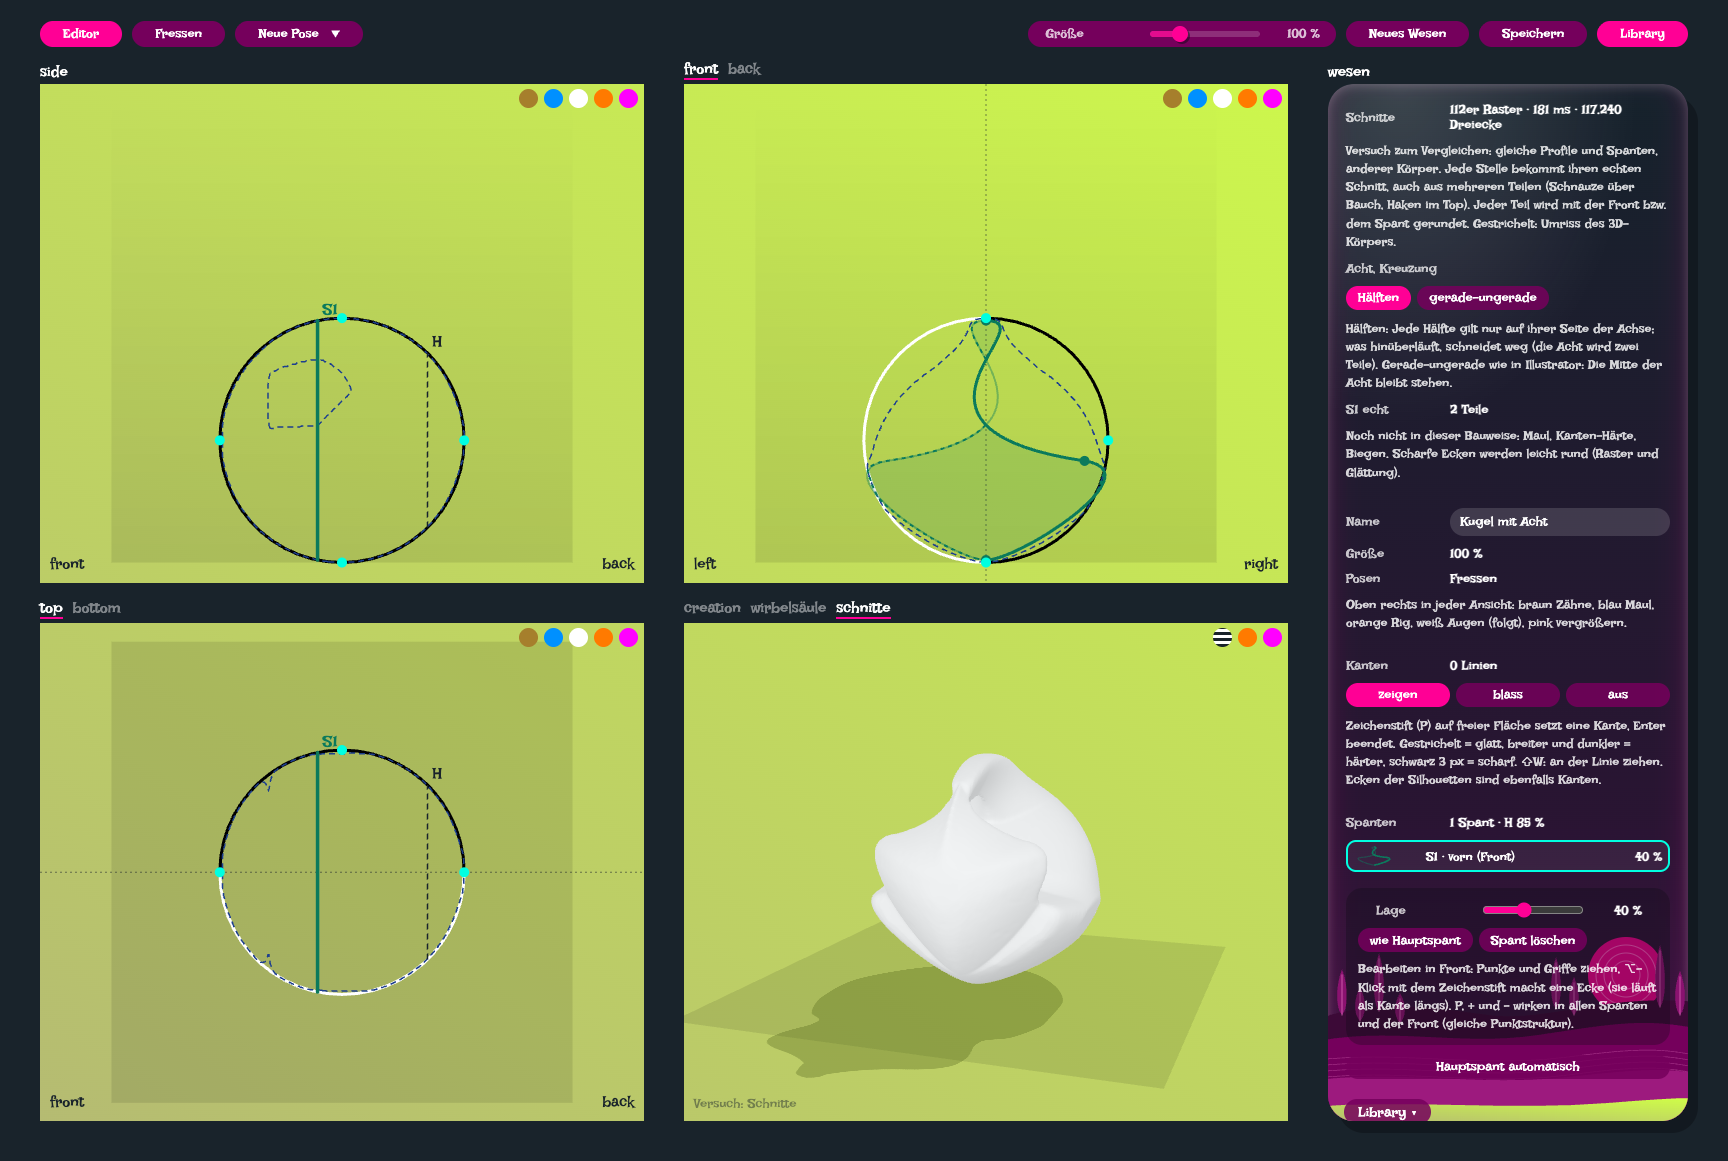
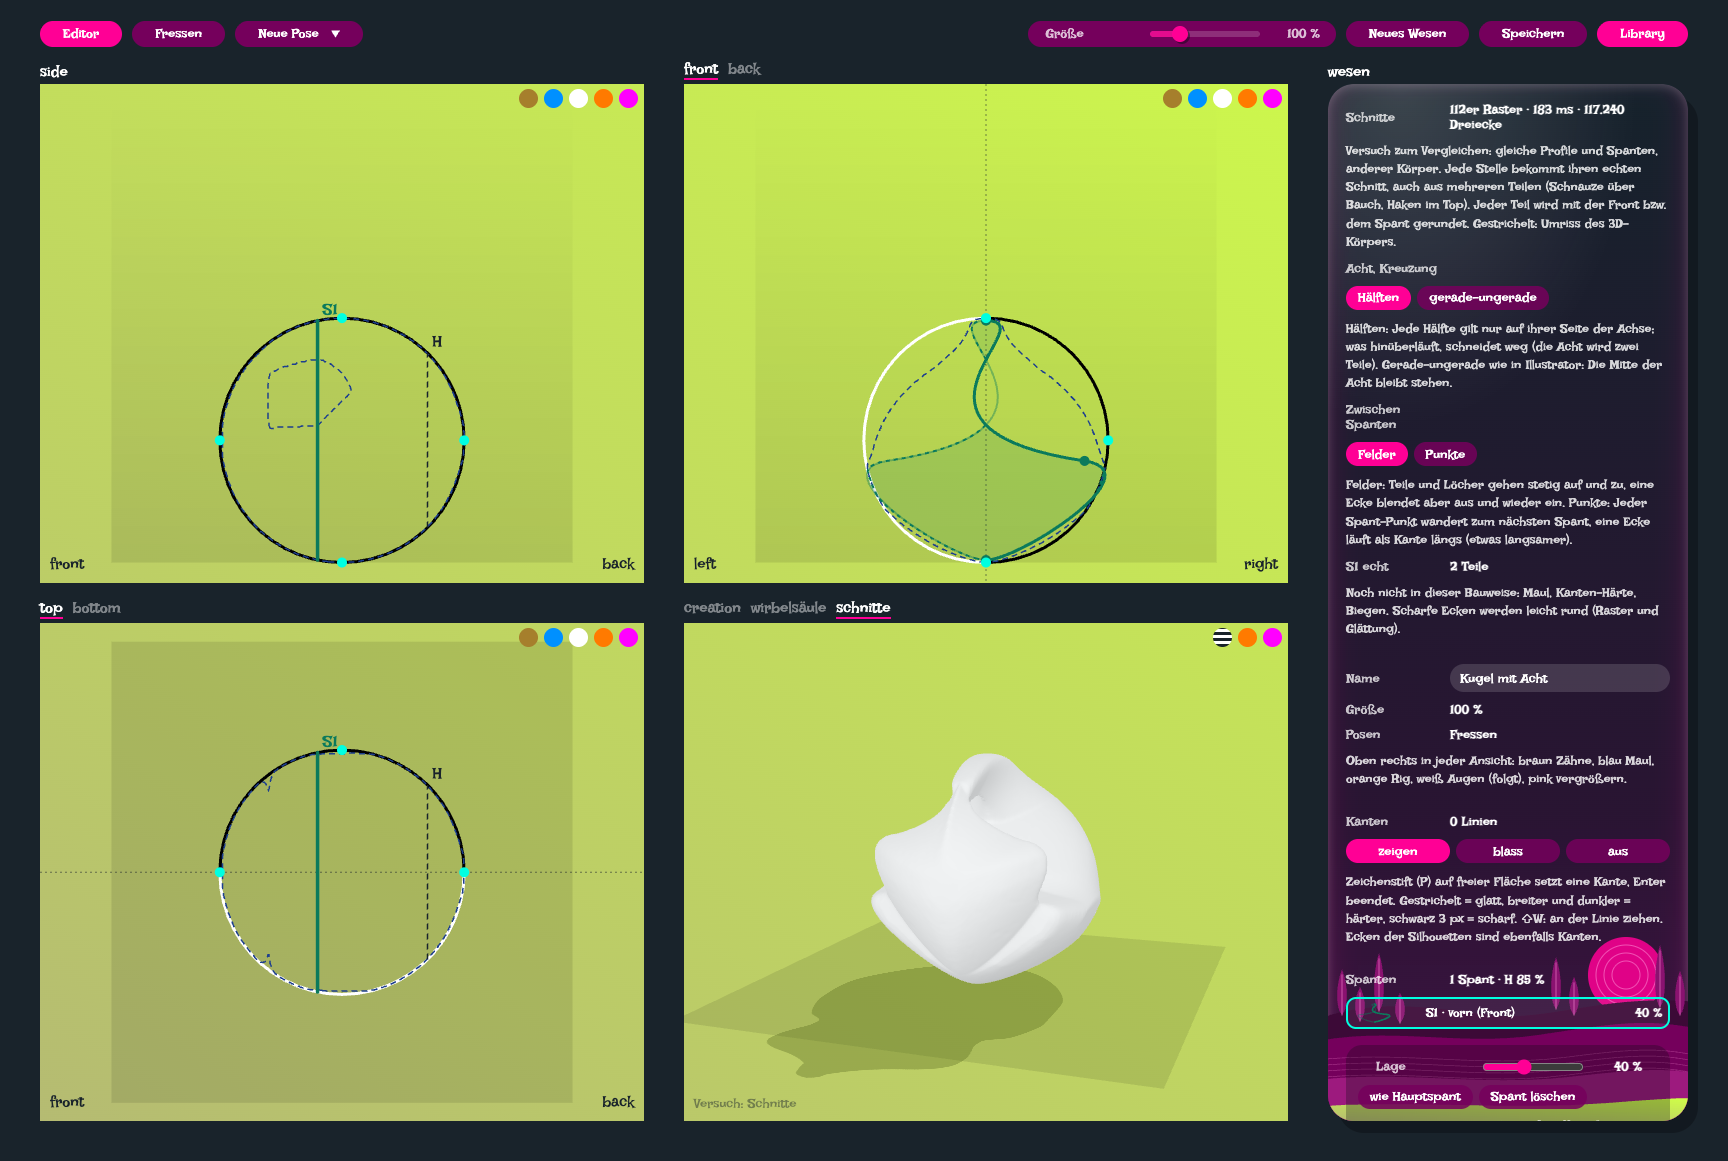
Schnitte: Überblendung zwischen Spanten wahlweise Punkt für Punkt (Kanten über Spant-Punkte)
- schnittLoft: Option ueberblenden 'feld' | 'punkte'; „punkte“ überblendet die Spanten wie bisher Punkt für Punkt (gleiche Punktstruktur) und bildet erst dann die Fläche mit der Flächenregel, so wandern Ecken als Kante längs, und die Acht teilt sich trotzdem
- Messung (Test „Kanten über Spant-Punkte“): Ecke (≈ 94° gezeichnet) zwischen zwei Spanten auf halbem Weg mit Feldern 3° im Schnitt, 4° im Netz, mit Punkten 51° bzw. 23°; an den Spanten 41° im Schnitt, 30–38° im Netz (Raster und Glättung runden)
- Editor: Umschalter „Zwischen Spanten: Felder | Punkte“ in der Seitenleiste, &ueberblenden=punkte im Versuchslader, E2E ergänzt

Changed region(s): [[0.7812, 0.3411, 0.9688, 0.9922], [0.9062, 0.093, 0.9375, 0.124]]

diff --git a/packages/shape/src/versuch/schnittLoft.test.ts b/packages/shape/src/versuch/schnittLoft.test.ts
@@ -3,6 +3,8 @@ import { describe, expect, it } from 'vitest';
 import type { V2 } from '../bezier';
 import { type Dokument, dokumentLesen, neuesDokument } from '../dokument';
 import { loftNetz } from '../platzhalter/loft';
+import type { Profil } from '../profil';
+import { hauptspantProfil } from '../spanten';
 import { schnittLoft } from './schnittLoft';
 import ueberhangRoh from './vorlagen/ueberhang.json';
 
@@ -49,6 +51,70 @@ function innenImNetz(pos: Float32Array, idx: Uint32Array, p: [number, number, nu
     if (zt > p[2]) z++;
   }
   return z % 2 === 1;
+}
+
+/** Netz mit der Ebene x = x0 schneiden: Strecken (z, y) des Schnitts, zu Zügen verbunden. */
+function netzSchnitt(pos: Float32Array, idx: Uint32Array, x0: number): V2[][] {
+  const strecken: [V2, V2][] = [];
+  for (let t = 0; t < idx.length; t += 3) {
+    const pk: V2[] = [];
+    for (let e = 0; e < 3; e++) {
+      const a = 3 * idx[t + e]!;
+      const b = 3 * idx[t + ((e + 1) % 3)]!;
+      const xa = pos[a]! - x0;
+      const xb = pos[b]! - x0;
+      if (xa < 0 === xb < 0) continue;
+      const u = xa / (xa - xb);
+      pk.push({ x: pos[a + 2]! + u * (pos[b + 2]! - pos[a + 2]!), y: pos[a + 1]! + u * (pos[b + 1]! - pos[a + 1]!) });
+    }
+    if (pk.length === 2) strecken.push([pk[0]!, pk[1]!]);
+  }
+  // längsten Zug aus den Strecken bilden (Enden über die Lage verbinden)
+  const key = (p: V2) => `${p.x.toFixed(5)},${p.y.toFixed(5)}`;
+  const nb = new Map<string, V2[]>();
+  for (const [a, b] of strecken) {
+    (nb.get(key(a)) ?? nb.set(key(a), []).get(key(a))!).push(b);
+    (nb.get(key(b)) ?? nb.set(key(b), []).get(key(b))!).push(a);
+  }
+  const besucht = new Set<string>();
+  const zuege: V2[][] = [];
+  for (const [a] of strecken) {
+    if (besucht.has(key(a))) continue;
+    const zug: V2[] = [];
+    let p: V2 | undefined = a;
+    while (p && !besucht.has(key(p))) {
+      besucht.add(key(p));
+      zug.push(p);
+      p = (nb.get(key(p)) ?? []).find((q) => !besucht.has(key(q)));
+    }
+    zuege.push(zug);
+  }
+  return zuege.sort((a, b) => b.length - a.length);
+}
+
+/** schärfste Richtungsänderung entlang eines geschlossenen Zugs über ±r (Grad), nur für |z| ≥ 0,05 und y im Bereich. */
+function eckWinkel(z: V2[], r: number, yBereich: [number, number] = [-Infinity, Infinity]): { winkel: number; y: number } {
+  const n = z.length;
+  const bogen = [0];
+  for (let i = 1; i <= n; i++) bogen.push(bogen[i - 1]! + Math.hypot(z[i % n]!.x - z[i - 1]!.x, z[i % n]!.y - z[i - 1]!.y));
+  const L = bogen[n]!;
+  const bei = (s0: number) => {
+    const s1 = ((s0 % L) + L) % L;
+    let i = 0;
+    while (i < n - 1 && bogen[i + 1]! < s1) i++;
+    return z[i]!;
+  };
+  let best = { winkel: 0, y: 0 };
+  for (let i = 0; i < n; i++) {
+    if (Math.abs(z[i]!.x) < 0.05 || z[i]!.y < yBereich[0] || z[i]!.y > yBereich[1]) continue;
+    const a = bei(bogen[i]! - r);
+    const b = bei(bogen[i]! + r);
+    const p = z[i]!;
+    let d = Math.abs(Math.atan2(b.y - p.y, b.x - p.x) - Math.atan2(p.y - a.y, p.x - a.x));
+    if (d > Math.PI) d = 2 * Math.PI - d;
+    if ((d * 180) / Math.PI > best.winkel) best = { winkel: (d * 180) / Math.PI, y: p.y };
+  }
+  return best;
 }
 
 /** Kanten mit genau zwei Dreiecken in Gegenrichtung (geschlossen und gleich orientiert), Volumen. */
@@ -172,6 +238,37 @@ describe('Versuch Schnitt-Loft', () => {
     // der Platzhalter-Loft blockt die Kerbe zu
     const loft = loftNetz(d);
     expect(innenImNetz(loft.positionen, loft.indizes, [0.03, 0.25, 0.155])).toBe(true);
+  });
+
+  it('Kanten über Spant-Punkte: Punkt-Überblendung lässt die Ecke wandern, Felder blenden sie aus und ein', () => {
+    // Kugel mit zwei Spanten, deren mittlerer Punkt eine Ecke ist: S1 (30 %) hoch, S2 (70 %) tief
+    const kugel = neuesDokument();
+    const mitEcke = (v: number): Profil => {
+      const h = hauptspantProfil(kugel);
+      const knoten = h.knoten.map((k, i) => (i === 1 ? { ...k, p: { x: 1, y: v }, ein: { x: 0, y: 0 }, aus: { x: 0, y: 0 }, art: 'ecke' as const } : k));
+      return { ...h, knoten };
+    };
+    const dok: Dokument = { ...kugel, spanten: [{ f: 0.3, profil: mitEcke(0.78) }, { f: 0.7, profil: mitEcke(0.22) }], hauptspant: 0.97 };
+    /** schärfste Ecke im echten Schnitt (Raster) bzw. im fertigen Netz (nach Surface Nets und Taubin) */
+    // nur zwischen den Höhen der beiden Ecken suchen (Pole des Schnitts auslassen)
+    const band: [number, number] = [0.1, 0.42];
+    const ecke = (s: ReturnType<typeof schnittLoft>, f: number) => eckWinkel(s.schnittBei(f).umrisse[0]!, 2.5 * s.info.h, band);
+    const ecke3d = (s: ReturnType<typeof schnittLoft>, f: number) => eckWinkel(netzSchnitt(s.positionen, s.indizes, s.xMin + f * (s.xMax - s.xMin))[0]!, 2.5 * s.info.h, band);
+    const feld = schnittLoft(dok, { ueberblenden: 'feld' });
+    const punkte = schnittLoft(dok, { ueberblenden: 'punkte' });
+    const zeilen: string[] = [];
+    for (const f of [0.3, 0.4, 0.5, 0.6, 0.7]) {
+      const a = ecke(feld, f);
+      const b = ecke(punkte, f);
+      const c = ecke3d(feld, f);
+      const d = ecke3d(punkte, f);
+      zeilen.push(
+        `f ${f}: Felder ${a.winkel.toFixed(0)}° bei y ${a.y.toFixed(3)} (Netz ${c.winkel.toFixed(0)}°) | Punkte ${b.winkel.toFixed(0)}° bei y ${b.y.toFixed(3)} (Netz ${d.winkel.toFixed(0)}°)`,
+      );
+    }
+    // gezeichnet: Ecke mit ≈ 94° Richtungsänderung
+    console.log(`Ecke zwischen zwei Spanten (schärfste Richtungsänderung über ±2,5 Rasterpunkte; Schnitt im Raster, in Klammern im fertigen Netz):\n${zeilen.join('\n')}\nBauzeit Felder ${feld.info.millisekunden.toFixed(0)} ms, Punkte ${punkte.info.millisekunden.toFixed(0)} ms`);
+    expect(ecke(punkte, 0.5).winkel).toBeGreaterThan(ecke(feld, 0.5).winkel + 10);
   });
 
   it('Laufzeit je Auflösung', () => {

diff --git a/packages/shape/src/versuch/schnittLoft.ts b/packages/shape/src/versuch/schnittLoft.ts
@@ -31,7 +31,8 @@
 import type { V2 } from '../bezier';
 import type { Dokument } from '../dokument';
 import { pfadAbtasten, segmente, vollerPfad } from '../profil';
-import { hauptspantProfil, spantStuetzen } from '../spanten';
+import type { Profil } from '../profil';
+import { hauptspantProfil, mischeProfile, spantStuetzen } from '../spanten';
 
 export type SchnittRegel = 'halb' | 'gerade-ungerade';
 
@@ -49,9 +50,15 @@ export type SchnittOptionen = {
    * Rundung von der sichtbaren Hülle wegschneidet; die Hülle selbst und die Umrisse bleiben exakt.
    */
   weich: number;
+  /**
+   * Überblendung zwischen Spanten: 'feld' = Abstandsfelder (Teile und Löcher gehen stetig auf und zu, Ecken blenden aus und
+   * ein); 'punkte' = Punkt für Punkt wie bisher, dann die Fläche mit der Flächenregel (Ecken wandern als Kante längs; Teile
+   * entstehen, wo die Kurve die Achse kreuzt). 'punkte' rechnet je Scheibe eine Vorlage (langsamer).
+   */
+  ueberblenden: 'feld' | 'punkte';
 };
 
-export const SCHNITT_STANDARD: SchnittOptionen = { aufloesung: 112, glaetten: 8, regel: 'halb', runden: true, weich: 2 };
+export const SCHNITT_STANDARD: SchnittOptionen = { aufloesung: 112, glaetten: 8, regel: 'halb', runden: true, weich: 2, ueberblenden: 'feld' };
 
 /** Echter Schnitt an einer Stelle: Umrisslinien in (z, y), Teile und Löcher. */
 export type SchnittUmriss = { umrisse: V2[][]; teile: number; loecher: number };
@@ -410,7 +417,7 @@ type Kontext = {
   seite2: Float32Array;
   top2: Float32Array;
   /** Stützen der Überblendung (Hauptspant = Front, Spanten) mit dem Kasten an ihrer Stelle */
-  stuetzen: { f: number; vorlage: Vorlage; kasten: Kasten3 }[];
+  stuetzen: { f: number; vorlage: Vorlage; kasten: Kasten3; profil: Profil }[];
 };
 
 /** Kasten einer Stelle wie bei den Spanten: Höhe aus der Seite (äußerste Schnittpunkte), halbe Breite aus dem Top. */
@@ -484,11 +491,10 @@ function kontextBauen(dok: Dokument, opt: SchnittOptionen): Kontext {
   const y0 = (yMin + yMax) / 2 - ((NY - 1) * h) / 2;
   const front = haelftenFeld(frontHalb, opt.regel, NZH, NY, h, y0, h);
   const stapel = new Int32Array(VNU * VNV);
-  const stuetzen = spantStuetzen(dok).map((s) => ({
-    f: s.f,
-    vorlage: vorlageAus(s.index < 0 ? hauptspantProfil(dok) : s.profil, opt.regel, stapel),
-    kasten: kastenAn(seite, topHalb, xMin, xMax, tMin, tMax, s.f, opt.regel),
-  }));
+  const stuetzen = spantStuetzen(dok).map((s) => {
+    const profil = s.index < 0 ? hauptspantProfil(dok) : s.profil;
+    return { f: s.f, profil, vorlage: vorlageAus(profil, opt.regel, stapel), kasten: kastenAn(seite, topHalb, xMin, xMax, tMin, tMax, s.f, opt.regel) };
+  });
   const seite2 = geschlossenesFeld(
     seite.map((p) => ({ x: p.y, y: p.x })),
     NY,
@@ -574,9 +580,15 @@ function vorlageAnStelle(k: Kontext, f: number, p: Puffer): { vorlage: Vorlage; 
   const t = b.f - a.f > 1e-9 ? (f - a.f) / (b.f - a.f) : 0;
   if (t < 1e-6) return a;
   if (t > 1 - 1e-6) return b;
-  const fa = a.vorlage.feld;
-  const fb = b.vorlage.feld;
-  for (let q = 0; q < fa.length; q++) p.vFeld[q] = (1 - t) * fa[q]! + t * fb[q]!;
+  if (k.opt.ueberblenden === 'punkte') {
+    // Punkt für Punkt überblenden (gleiche Punktstruktur), dann die Fläche bilden: Ecken wandern als Kante längs
+    const halb = pfadAbtasten(segmente(mischeProfile(a.profil, b.profil, t)), 16);
+    p.vFeld.set(haelftenFeld(halb, k.opt.regel, VNU, VNV, VH, VV0, VH));
+  } else {
+    const fa = a.vorlage.feld;
+    const fb = b.vorlage.feld;
+    for (let q = 0; q < fa.length; q++) p.vFeld[q] = (1 - t) * fa[q]! + t * fb[q]!;
+  }
   const teile = teileFinden(p.vFeld, VNU, VNV, VH, VV0, VH, p.vLab, p.vStapel);
   const mix = (x: number, y: number) => x + (y - x) * t;
   return {

diff --git a/apps/editor/src/three/Szene3D.tsx b/apps/editor/src/three/Szene3D.tsx
@@ -69,7 +69,7 @@ export function Szene3D() {
         const d: Dokument = useEditor.getState().modus === 'fressen' && !dRoh.maul && pose && pose.knoten.length === dRoh.profile.seite.knoten.length ? { ...dRoh, profile: { ...dRoh.profile, seite: pose } } : dRoh;
         if (!versuch && useUi.getState().bauweise === 'schnitte') {
           // Versuch 13.10.: echte Schnitte (Schnauze über Bauch, Acht, Haken im Top); Maul und Kanten-Härte fehlen hier noch
-          const sl = schnittBauen(d, schnell, useUi.getState().schnittRegel);
+          const sl = schnittBauen(d, schnell, useUi.getState().schnittRegel, useUi.getState().schnittUeberblenden);
           const k = d.skalierung;
           r.setzeLinien(null);
           r.setzeFlaeche(k !== 1 ? sl.positionen.map((v) => v * k) : sl.positionen, sl.normalen, sl.indizes);
@@ -156,7 +156,7 @@ export function Szene3D() {
           if (s.zebra !== v.zebra) r.setzeZebra(s.zebra);
           if (s.oeffnung !== v.oeffnung && useEditor.getState().dok.maul) bauen(useEditor.getState().dok);
           if (s.bauweise !== v.bauweise) bauen(useEditor.getState().dok);
-          if (s.schnittRegel !== v.schnittRegel && s.bauweise === 'schnitte') bauen(useEditor.getState().dok);
+          if ((s.schnittRegel !== v.schnittRegel || s.schnittUeberblenden !== v.schnittUeberblenden) && s.bauweise === 'schnitte') bauen(useEditor.getState().dok);
           if (s.wirbelBiegung !== v.wirbelBiegung && s.bauweise === 'wirbel') bauen(useEditor.getState().dok, !!useEditor.getState().gesteStart || useWirbelAnzeige.getState().zieht);
           if (s.kantenAuswahl !== v.kantenAuswahl) verlauf();
         }),

diff --git a/apps/editor/src/leiste/Seitenleiste.tsx b/apps/editor/src/leiste/Seitenleiste.tsx
@@ -412,6 +412,7 @@ function SchnittBereich() {
   const info = useSchnittAnzeige((s) => s.info);
   useSchnittAnzeige((s) => s.stand);
   const regel = useUi((s) => s.schnittRegel);
+  const ueberblenden = useUi((s) => s.schnittUeberblenden);
   const auswahl = useUi((s) => s.spantAuswahl);
   const spanten = useEditor((s) => s.dok.spanten);
   const hatMaul = useEditor((s) => !!s.dok.maul);
@@ -442,6 +443,21 @@ function SchnittBereich() {
       <p className="hilfe">
         Hälften: Jede Hälfte gilt nur auf ihrer Seite der Achse; was hinüberläuft, schneidet weg (die Acht wird zwei Teile). Gerade-ungerade wie in Illustrator: Die Mitte der
         Acht bleibt stehen.
+      </p>
+      <div className="feld">
+        <span>Zwischen Spanten</span>
+      </div>
+      <div className="umschalter">
+        <button className={ueberblenden === 'feld' ? 'chip aktiv' : 'chip'} data-schnittueberblenden="feld" onClick={() => useUi.getState().setzeSchnittUeberblenden('feld')}>
+          Felder
+        </button>
+        <button className={ueberblenden === 'punkte' ? 'chip aktiv' : 'chip'} data-schnittueberblenden="punkte" onClick={() => useUi.getState().setzeSchnittUeberblenden('punkte')}>
+          Punkte
+        </button>
+      </div>
+      <p className="hilfe">
+        Felder: Teile und Löcher gehen stetig auf und zu, eine Ecke blendet aber aus und wieder ein. Punkte: Jeder Spant-Punkt wandert zum nächsten Spant, eine Ecke läuft als
+        Kante längs (etwas langsamer).
       </p>
       {sp && auswahl && echt ? (
         <div className="feld">

diff --git a/apps/editor/src/schnitte/schnittKoerper.ts b/apps/editor/src/schnitte/schnittKoerper.ts
@@ -27,18 +27,28 @@ type Bau = {
   spanten: Dokument['spanten'];
   hauptspant: number | undefined;
   regel: SchnittRegel;
+  ueberblenden: 'feld' | 'punkte';
   aufloesung: number;
   loft: SchnittLoft;
 };
 let letzter: Bau | null = null;
 const schnitte = new Map<number, SchnittUmriss>();
 
-export function schnittBauen(dok: Dokument, schnell: boolean, regel: SchnittRegel): SchnittLoft {
+export function schnittBauen(dok: Dokument, schnell: boolean, regel: SchnittRegel, ueberblenden: 'feld' | 'punkte' = 'feld'): SchnittLoft {
   const aufloesung = schnell ? SCHNITT_GROB : SCHNITT_GENAU;
   const l = letzter;
-  if (l && l.profile === dok.profile && l.spanten === dok.spanten && l.hauptspant === dok.hauptspant && l.regel === regel && (l.aufloesung === aufloesung || (schnell && l.aufloesung > aufloesung))) return l.loft;
-  const loft = schnittLoft(dok, { aufloesung, regel });
-  letzter = { profile: dok.profile, spanten: dok.spanten, hauptspant: dok.hauptspant, regel, aufloesung, loft };
+  if (
+    l &&
+    l.profile === dok.profile &&
+    l.spanten === dok.spanten &&
+    l.hauptspant === dok.hauptspant &&
+    l.regel === regel &&
+    l.ueberblenden === ueberblenden &&
+    (l.aufloesung === aufloesung || (schnell && l.aufloesung > aufloesung))
+  )
+    return l.loft;
+  const loft = schnittLoft(dok, { aufloesung, regel, ueberblenden });
+  letzter = { profile: dok.profile, spanten: dok.spanten, hauptspant: dok.hauptspant, regel, ueberblenden, aufloesung, loft };
   schnitte.clear();
   const i = loft.info;
   useSchnittAnzeige.setState((s) => ({

diff --git a/apps/editor/src/state/uiStore.ts b/apps/editor/src/state/uiStore.ts
@@ -75,6 +75,8 @@ type UiState = {
   bauweise: Bauweise;
   /** Versuch 13.10.: Flächenregel der Schnitte für Front und Spanten (Hälften oder gerade-ungerade) */
   schnittRegel: SchnittRegel;
+  /** Versuch 13.10.: Überblendung zwischen Spanten (Abstandsfelder oder Punkt für Punkt) */
+  schnittUeberblenden: 'feld' | 'punkte';
   /** Wirbelsäule testweise biegen (Pose-Vorschau, nicht im Dokument): Winkel in Grad, Stelle 0 … 1 ab der Schnauze */
   wirbelBiegung: { winkel: number; bei: number };
   /** Wirbelsäule selbst zeichnen: gesetzte Punkte (Seite), bis Enter/Esc */
@@ -108,6 +110,7 @@ type UiState = {
   setzeZebra(an: boolean): void;
   setzeBauweise(b: Bauweise): void;
   setzeSchnittRegel(r: SchnittRegel): void;
+  setzeSchnittUeberblenden(u: 'feld' | 'punkte'): void;
   setzeWirbelBiegung(b: { winkel: number; bei: number }): void;
   setzeWirbelZeichnen(p: { x: number; y: number }[] | null): void;
   setzeSpantAuswahl(a: SpantAuswahl | null): void;
@@ -146,6 +149,7 @@ export const useUi = create<UiState>((set, get) => ({
   zebra: false,
   bauweise: 'bisher',
   schnittRegel: 'halb',
+  schnittUeberblenden: 'feld',
   wirbelBiegung: { winkel: 0, bei: 0.5 },
   wirbelZeichnen: null,
   spantAuswahl: null,
@@ -201,6 +205,9 @@ export const useUi = create<UiState>((set, get) => ({
   },
   setzeSchnittRegel(r) {
     set({ schnittRegel: r });
+  },
+  setzeSchnittUeberblenden(u) {
+    set({ schnittUeberblenden: u });
   },
   setzeWirbelBiegung(b) {
     set({ wirbelBiegung: b });

diff --git a/apps/editor/src/schnitte/schnittVersuch.ts b/apps/editor/src/schnitte/schnittVersuch.ts
@@ -1,6 +1,6 @@
 // Versuch 13.10.: Prüfwesen für die Bauweise „Schnitte“ laden.
 //   ?versuch=schnitte&wesen=ueberhang|kugel|rex|tiger|robbe|langhals
-//   &bauweise=bisher (zum Vergleichen), &regel=gerade-ungerade, &spanten=0 (Spanten weglassen)
+//   &bauweise=bisher (zum Vergleichen), &regel=gerade-ungerade, &ueberblenden=punkte, &spanten=0 (Spanten weglassen)
 // „ueberhang“ ist Florians Bogen vom 13.10. (Ente mit Schnauze über dem Bauch, Glocke, Top mit Haken, S1 als Acht),
 // nachgezogen als Dokument; die anderen sind die nachgezogenen Versuchswesen vom 12.10.
 
@@ -24,5 +24,6 @@ export async function schnittVersuchLaden(): Promise<void> {
   }
   useEditor.getState().laden(dok, null);
   if (q.get('regel') === 'gerade-ungerade') useUi.getState().setzeSchnittRegel('gerade-ungerade');
+  if (q.get('ueberblenden') === 'punkte') useUi.getState().setzeSchnittUeberblenden('punkte');
   useUi.getState().setzeBauweise(q.get('bauweise') === 'bisher' ? 'bisher' : 'schnitte');
 }

diff --git a/apps/editor/e2e/schnitte.spec.ts b/apps/editor/e2e/schnitte.spec.ts
@@ -86,6 +86,11 @@ test('Bauweise Schnitte: Tab, Umriss, echter Schnitt bei S1, Regel, zurück', as
   await page.locator('.leiste [data-schnittregel="gerade-ungerade"]').click();
   await expect.poll(() => vertices(page)).not.toBe(v);
   await page.locator('.leiste [data-schnittregel="halb"]').click();
+  // Überblendung zwischen Spanten: Punkt für Punkt baut einen anderen Körper
+  const v2 = await vertices(page);
+  await page.locator('.leiste [data-schnittueberblenden="punkte"]').click();
+  await expect.poll(() => vertices(page)).not.toBe(v2);
+  await page.locator('.leiste [data-schnittueberblenden="feld"]').click();
 
   // Ziehen an einem Punkt der Seite: grob während der Geste, genau beim Loslassen
   const info = page.locator('.leiste [data-schnittinfo]');
